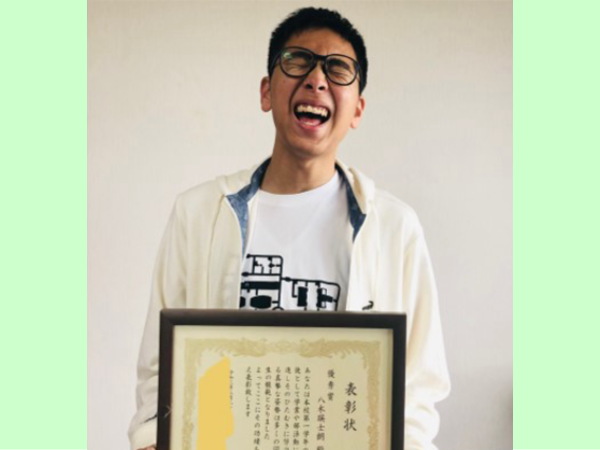
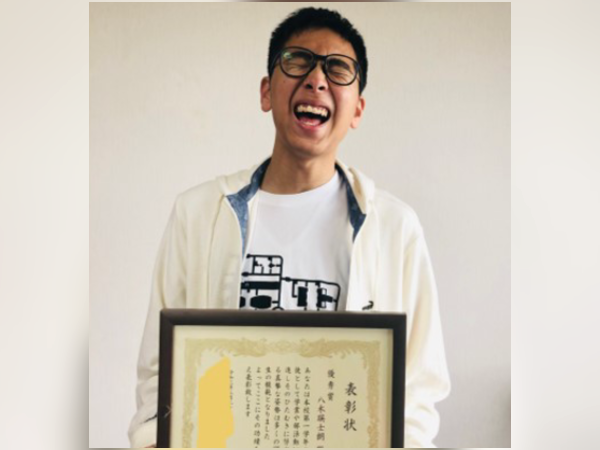
下層ページの違和感を解消（画像・余白・配置）
- 卒業生写真4点に焼き込まれていた黄緑の余白を、写真自体のぼかしに置換
- 画風の合わないストック素材（子どもの輪・電球）を、トーンの合う写真に差し替え
- 講演動画のサムネイルを必ず存在する hqdefault に変更
- 卒業生の声：セクション間の余白が二重に広がっていた不具合を修正
- お問い合わせ：申し込みの流れの番号の丸が左に寄っていたのを中央に
- 講演・プロデュース：赤太字の質問見出しを藍＋赤の細罫に
- 低解像度の写真を引き伸ばさないよう、写真ブロックを写真の幅に合わせる
- 教室案内：長いURLでスマホ表示が横にはみ出していたのを、リンク文言に変更

Claude-Session: https://claude.ai/code/session_01MY4iCYfauos3hqRYfvfhyd

diff --git a/produce.html b/produce.html
@@ -118,11 +118,11 @@
 
       <div style="max-width:880px;margin:38px auto 0;display:grid;gap:26px">
         <div class="card">
-          <h4 class="h4" style="color:var(--red)">(1) 準備期間がわずかな中での市川の企画立案から、現場統括はどうだったか？</h4>
+          <h4 class="h4 h4--q">(1) 準備期間がわずかな中での市川の企画立案から、現場統括はどうだったか？</h4>
           <p>相談したのは12月20日。イベント開催は、2月22日(水)宇都宮市文化会館と日程と場所が既に決まっていて、その際に「私のまちづくりへの思いを多くの方へ届けたい、地域共生社会の実現に向けてプレイヤーを増やしたい」との自分の思いを伝えると、市川さんは新たな集客戦略や手法を採り入れた企画を、たちまち提案してくれました。</p>
         </div>
         <div class="card">
-          <h4 class="h4" style="color:var(--red)">(2) 新たな時代の試みとして市川が、SNS戦略を今回投入しましたが、FBでの告知ライブの登壇者3名たちとの、彼女のホスト役を見ていてのご感想は？</h4>
+          <h4 class="h4 h4--q">(2) 新たな時代の試みとして市川が、SNS戦略を今回投入しましたが、FBでの告知ライブの登壇者3名たちとの、彼女のホスト役を見ていてのご感想は？</h4>
           <p>対談ライブは1週間おきに3回3人が行いました。<br>
           市川さんの洗練されたトークで、活動の原点や登壇者の魅力が引き出されていました。<br>
           対談ライブでイベント告知は、初めての経験でした。市川さんの軽快な進行で、登壇者の活動の原点、お人柄と魅力が引き出されていました。<br>
@@ -130,11 +130,11 @@
           私の対談ライブでは、始まって間もなく登壇者の私が消えてしまうアクシデントが発生。市川さんは機転を利かせ、トラブルをユーモアで神対応。視聴者は離れるどころか、視聴者数は増加しました。まさに神対応でした！(^O^)</p>
         </div>
         <div class="card">
-          <h4 class="h4" style="color:var(--red)">(3) 当日の舞台裏、トラブル対応、ステージの見せ方【例：カーテンコールや撮影アングルの指示出し】</h4>
+          <h4 class="h4 h4--q">(3) 当日の舞台裏、トラブル対応、ステージの見せ方【例：カーテンコールや撮影アングルの指示出し】</h4>
           <p>市川さんが指示出しして下さった、登壇者のスクラム映像やカーテンコールは、のちに活動報告をする際にとても有効でした。ただ記録に残すというだけでなく、映像で「何を伝えたいか」を考えて記録することが大切であり、撮影班との想いの共有はとても重要だと感じました。トータルで勉強になりました。</p>
         </div>
         <div class="card">
-          <h4 class="h4" style="color:var(--red)">(4) 登壇者の10分間プレゼン内容等や市川の人柄に触れたご感想</h4>
+          <h4 class="h4 h4--q">(4) 登壇者の10分間プレゼン内容等や市川の人柄に触れたご感想</h4>
           <p>市川さんの指示で視聴者に伝えたい内容を単語にして選び、そこからプレゼン内容を組立てることによって、10分という短い時間に凝縮してお届けできたと思います。<br>
           彼女は聡明で、機転が利いて。根拠に基づく提案ができて、トラブルにもユーモアで対応できて、何より私と感性が近いと感じられる（笑）<br>
           これからもどうぞよろしくお願いします♪</p>

diff --git a/assets/css/style.css b/assets/css/style.css
@@ -1370,3 +1370,22 @@ h1,h2,h3{font-feature-settings:"palt" 1}
 /* 日本語の改行：1〜2文字だけが次行に落ちるのを防ぐ */
 p,li,dd{text-wrap:pretty}
 .ctaband .catch,.footer__catch p{word-break:keep-all; overflow-wrap:anywhere}
+
+/* ---------- 仕上げ 2 ---------- */
+/* 詰めたセクション（卒業生の声など）は、広げた余白の対象外に */
+.section--tight{padding-block:clamp(32px,3.4vw,52px)}
+.section--tight + .section--tight{padding-top:0}
+.ctaband p{max-width:48em}
+/* 代表の言葉：句読点の位置で折り返す */
+.pullquote{word-break:keep-all; overflow-wrap:anywhere}
+/* 卒業生カードの見出しも明朝の字間をそろえる */
+.voice__title{letter-spacing:.06em}
+.senpai .name{letter-spacing:.06em}
+/* 申し込みの流れ：番号の丸が左に寄っていた（.step p の margin:0 に負けていた） */
+.step .step__no{margin:0 auto 18px; font-family:var(--latin); font-weight:600; font-size:26px; color:var(--navy); font-variant-numeric:lining-nums; box-shadow:0 0 0 1px var(--navy), 0 0 0 7px var(--tint)}
+/* 解像度の低い写真を引き伸ばしてぼかさないよう、写真ブロックは写真の幅に合わせる */
+.split__media{width:fit-content; max-width:100%; margin-inline:auto}
+.split__media img{max-width:min(100%,460px); margin-inline:auto}
+/* インタビューの質問：赤い太字の連続を避け、藍の文字＋赤い細罫で示す */
+.h4--q{color:var(--navy); padding-left:14px; border-left:2px solid var(--red); line-height:1.7; letter-spacing:.04em}
+.deflist dt,.deflist dd{min-width:0; overflow-wrap:anywhere}

diff --git a/about.html b/about.html
@@ -140,7 +140,7 @@
       </div>
       <div class="split split--photo-left">
         <div class="split__media">
-          <img src="assets/img/index-1.png" alt="自立塾の授業風景" width="300" height="290" loading="lazy">
+          <img src="assets/img/c-2.png" alt="生徒一人ひとりに寄り添う授業の様子" width="300" height="230" loading="lazy">
         </div>
         <div>
           <h3 class="h3">【 面倒見が良い 】</h3>
@@ -228,7 +228,7 @@
       </div>
       <div style="max-width:840px;margin-inline:auto">
         <button class="video" type="button" data-youtube="YL38yEWMKTs" data-title="「わが子のやる気を引き出す」講演会" aria-label="「わが子のやる気を引き出す」講演会の動画を再生する">
-          <img src="https://img.youtube.com/vi/YL38yEWMKTs/maxresdefault.jpg" alt="" width="1280" height="720" loading="lazy" onerror="this.src='assets/img/index-1.png'">
+          <img src="https://img.youtube.com/vi/YL38yEWMKTs/hqdefault.jpg" alt="" width="480" height="360" loading="lazy" onerror="this.src='assets/img/achieve-1.png'">
           <span class="video__play" aria-hidden="true"></span>
           <span class="video__cap">「わが子のやる気を引き出す」講演会／市川潤子</span>
         </button>

diff --git a/achievement.html b/achievement.html
@@ -163,7 +163,7 @@
         <h2 class="sec-title">塾生実績</h2>
       </div>
       <div class="split split--photo-left">
-        <div class="split__media"><img src="assets/img/achieve-3.png" alt="塾生の様子" width="300" height="200" loading="lazy"></div>
+        <div class="split__media"><img src="assets/img/c-3.png" alt="目標をかなえた塾生" width="300" height="230" loading="lazy"></div>
         <div>
           <ul class="checklist checklist--red">
             <li>群馬大学医学部・早稲田大学等毎年、中学受験～大学受験まで合格者輩出</li>
@@ -187,7 +187,7 @@
         <p class="sec-lead">自立塾で学んだ受講生が、それぞれの現場で活躍しています。</p>
       </div>
       <div class="split split--photo-left">
-        <div class="split__media"><img src="assets/img/achieve-4.png" alt="社会人受講生の様子" width="300" height="200" loading="lazy"></div>
+        <div class="split__media"><img src="assets/img/c-4.png" alt="社会で活躍する受講生" width="300" height="276" loading="lazy"></div>
         <div>
           <ul class="pill-list">
             <li>公立・私立小学校／中学校教諭</li>

diff --git a/info.html b/info.html
@@ -111,8 +111,8 @@
         <dt>事務所 住所</dt>
         <dd>〒321-0923　栃木県宇都宮市下栗町698-81フェニックス下栗301<br>
         ※郵便物はこちらへお願い致します</dd>
-        <dt>Youtube</dt>
-        <dd><a href="https://www.youtube.com/channel/UCJp2LZc89UXHqa7oxnzZFcg" target="_blank" rel="noopener">https://www.youtube.com/channel/UCJp2LZc89UXHqa7oxnzZFcg</a></dd>
+        <dt>YouTube</dt>
+        <dd><a href="https://www.youtube.com/channel/UCJp2LZc89UXHqa7oxnzZFcg" target="_blank" rel="noopener">自立塾 公式YouTubeチャンネル</a></dd>
       </dl>
     </div>
   </section>
